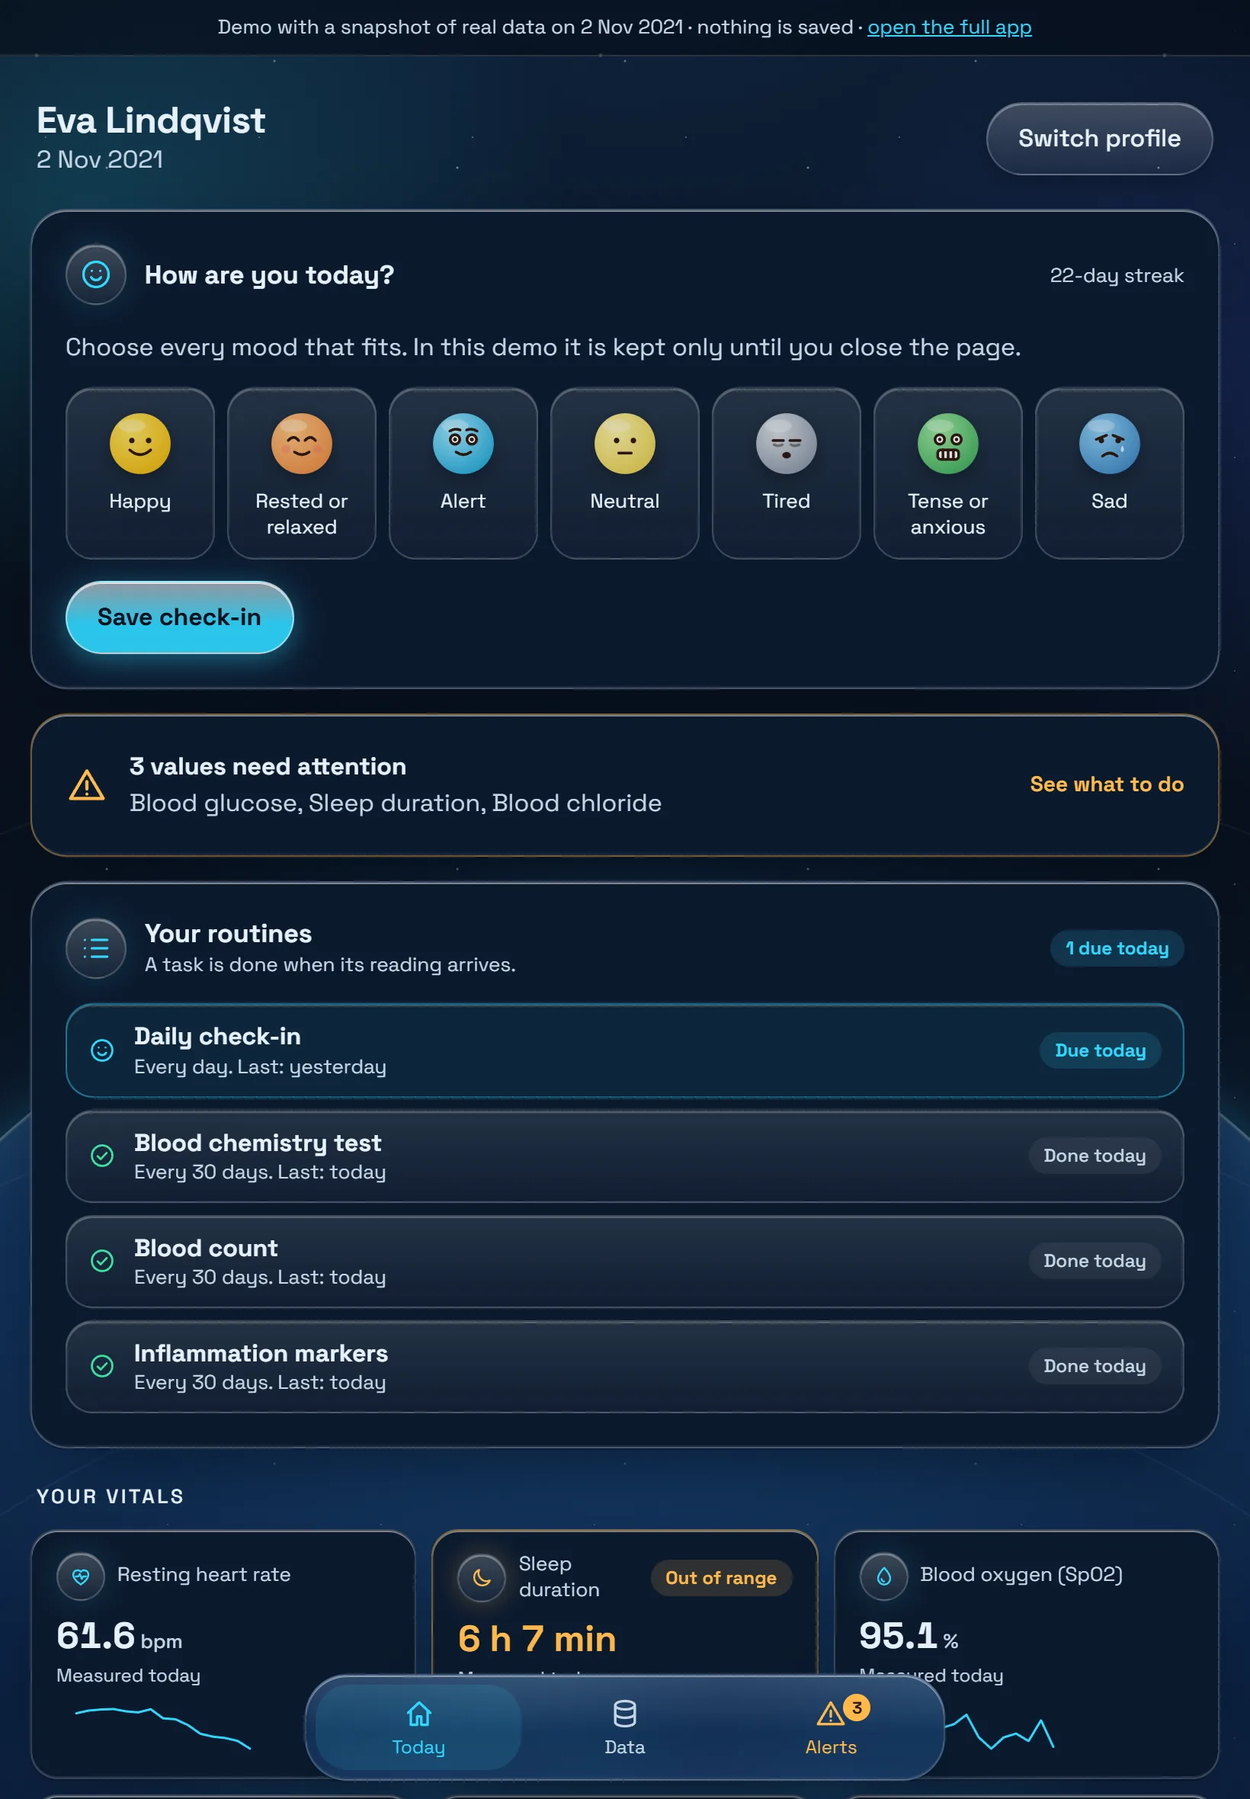
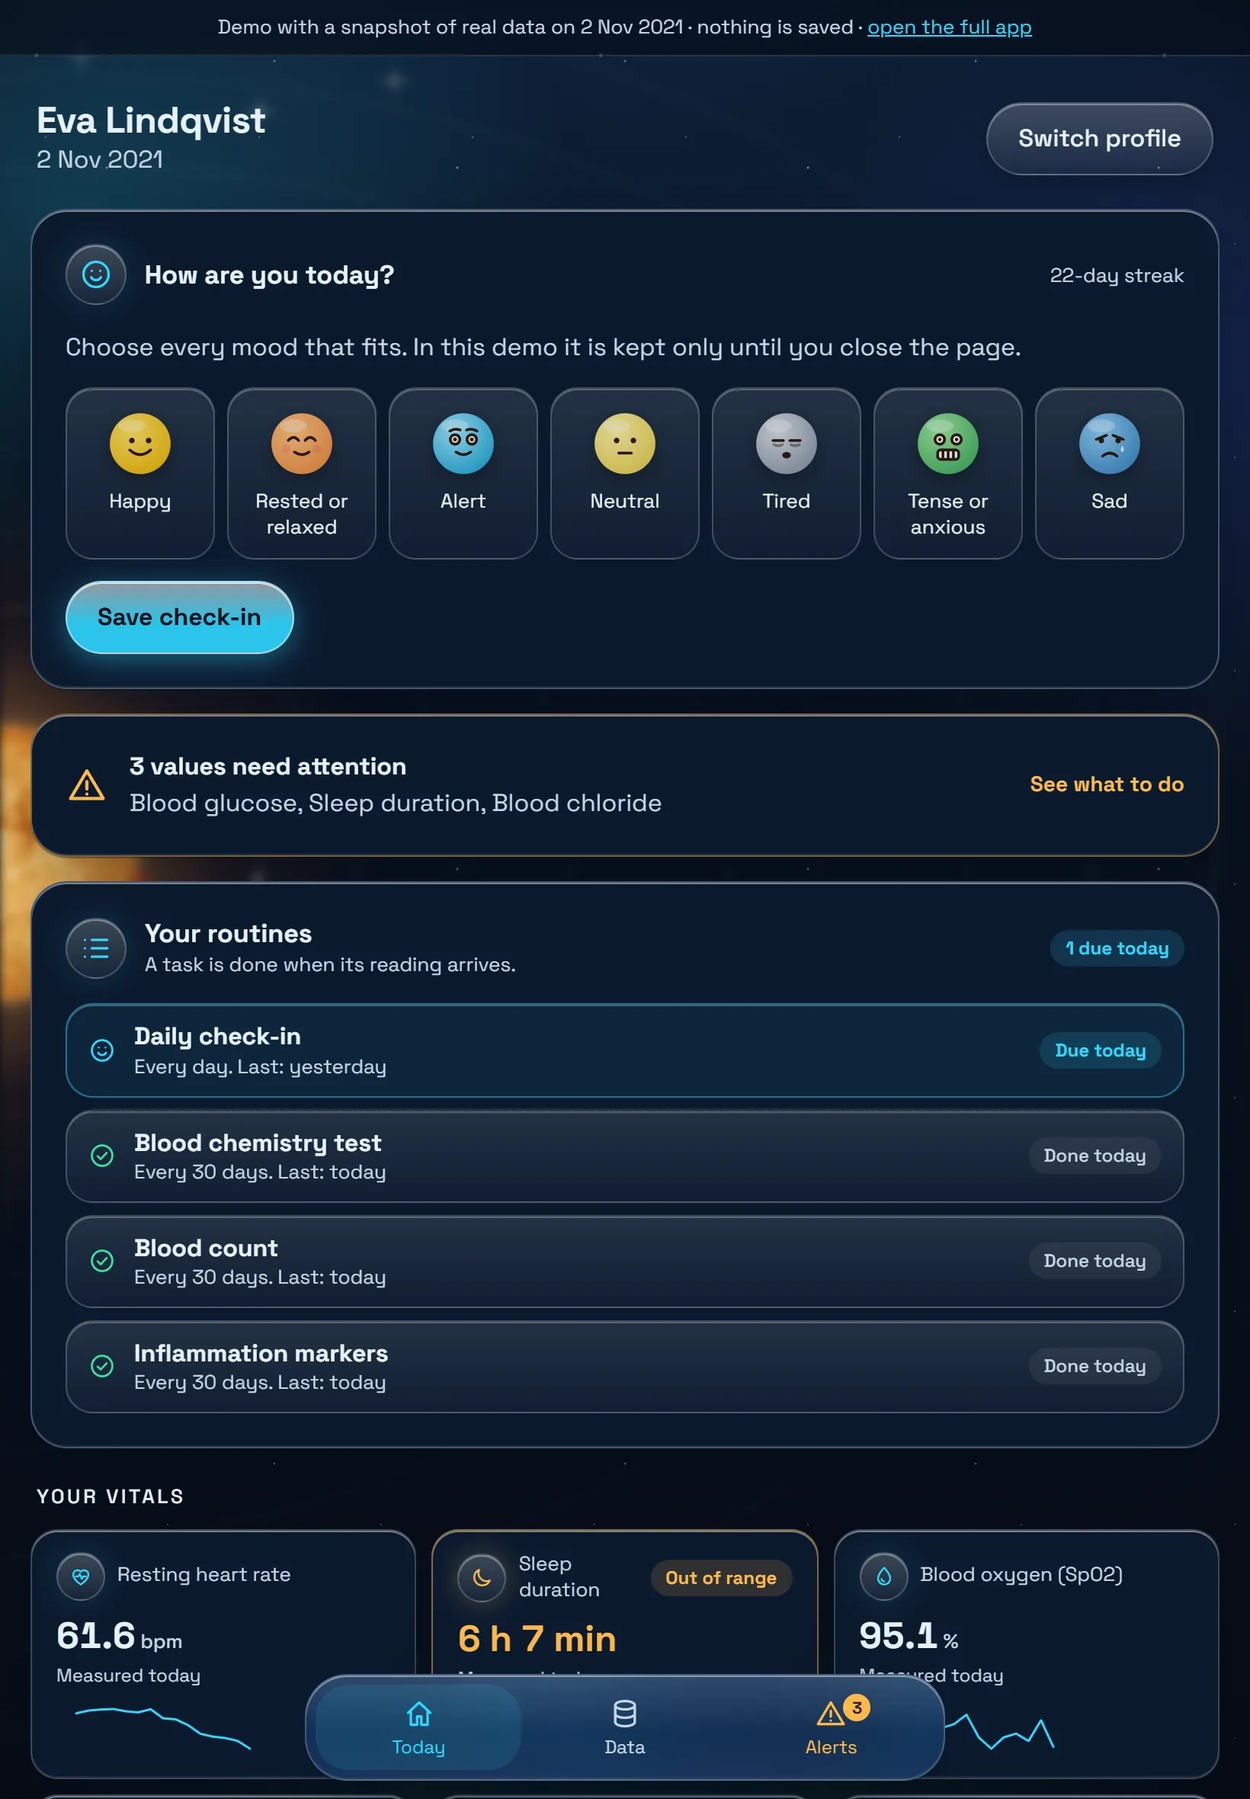
feat: bring the dashboard's solar-system sky to the landing mini demo
The mini demo of the dashboard now has Alex's sky, the same as apps/web.
SolarSky.tsx is built as it is into demo/js/sky.js, with a ten-line stand-in
for React (tools/sky/), so the demo still needs no framework and opens from a
file. The copied stylesheet and the landing screenshots follow.

Changed region(s): [[0.0, 0.3403, 1.0, 1.0]]

diff --git a/apps/landing/pitch/demo/js/sky.js b/apps/landing/pitch/demo/js/sky.js
@@ -1,0 +1,1 @@
+(function(){var e=[];function t(e){return{current:e}}function n(t){e.push(t)}function r(){let t=e;return e=[],t}var i=640,a=320,o=512,s=220,c=12,l=(e,t=0,n=1)=>e<t?t:e>n?n:e,u=(e,t,n)=>e+(t-e)*n,d=(e,t,n)=>{let r=l((n-e)/(t-e));return r*r*(3-2*r)};function f(e){return()=>{e|=0,e=e+1831565813|0;let t=Math.imul(e^e>>>15,1|e);return t=t+Math.imul(t^t>>>7,61|t)^t,((t^t>>>14)>>>0)/4294967296}}function p(e){let t=f(e),n=new Uint8Array(512),r=new Float32Array(256),i=Array.from({length:256},(e,t)=>t);for(let e=255;e>0;e--){let n=Math.floor(t()*(e+1));[i[e],i[n]]=[i[n],i[e]]}for(let e=0;e<512;e++)n[e]=i[e&255];for(let e=0;e<256;e++)r[e]=t();let a=e=>e*e*e*(e*(e*6-15)+10),o=(e,t,i)=>r[n[n[n[e]+t]+i]];function s(e,t,n){let r=Math.floor(e),i=Math.floor(t),s=Math.floor(n),c=e-r,l=t-i,d=n-s,f=r&255,p=i&255,m=s&255,h=a(c),g=a(l),_=a(d),v=u(o(f,p,m),o(f+1,p,m),h),y=u(o(f,p+1,m),o(f+1,p+1,m),h),b=u(o(f,p,m+1),o(f+1,p,m+1),h),x=u(o(f,p+1,m+1),o(f+1,p+1,m+1),h);return u(u(v,y,g),u(b,x,g),_)}function c(e,t,n,r){let i=.5,a=0,o=1,c=0;for(let l=0;l<r;l++)a+=i*s(e*o,t*o,n*o),c+=i,o*=2.03,i*=.5;return a/c}return{vn:s,fbm:c}}var m=3600,h=[],g=[];{let e=f(1859),t=()=>(e()*2-1)*1.15,n=-2;for(;n<m;)h.push({t0:n,dur:4+e()*3,phi:t(),width:.05+e()*.05,power:70+e()*45,embers:[]}),n+=9+e()*9;for(n=14;n<m;)h.push({t0:n,dur:5+e()*2,phi:t(),width:.08+e()*.05,power:120+e()*45,embers:Array.from({length:5+Math.floor(e()*5)},()=>({ang:(e()-.5)*.4,speed:40+e()*50,delay:e()*1.2,life:1.6+e()*1.4}))}),n+=45+e()*35;for(let t=0;t<70;t++)g.push({phi:(e()*2-1)*1.35,speed:16+e()*34,offset:e()*4e3,size:.8+e()*.9})}var _=[[170,40,12,.45],[214,58,12,.6],[244,98,16,.72],[255,134,24,.8],[255,182,48,.86],[255,220,104,.92],[255,246,196,.95]],v=e=>e<22?-1:Math.min(_.length-1,Math.floor((e-22)/233*_.length));function y(){let e=!1,t=document.createElement(`canvas`);t.width=t.height=o;let n=t.getContext(`2d`),r=n.createImageData(o,o),u=new Float32Array,m=new Float32Array,y=new Int32Array,b=new Float32Array,x=new Int32Array,S=new Float32Array,C=new Uint8Array,w=-1;function T(){let{vn:t,fbm:n}=p(2024);u=new Float32Array(i*a),m=new Float32Array(i*a);for(let e=0;e<a;e++){let r=(.5-(e+.5)/a)*Math.PI,o=Math.cos(r),s=Math.sin(r);for(let a=0;a<i;a++){let c=(a+.5)/i*Math.PI*2-Math.PI,f=o*Math.sin(c),p=s,h=o*Math.cos(c),g=n(f*4+3,p*4+7,h*4+1,3),_=n(f*3.1+40,p*3.1+9,h*3.1+22,3),v=d(.64,.74,_)*(1-d(.35,.6,Math.abs(r))),y=d(.58,.64,_)*(1-d(.35,.6,Math.abs(r))),b=t(f*30,p*30,h*30)-.5,x=t(f*62+5,p*62+5,h*62+5)-.5;u[e*i+a]=l(.8+.5*(g-.5)+.55*b+.3*x-.3*y-.5*v,.1,1.3);let S=t(f*44+11,p*44+2,h*44+8)-.5,C=t(f*90+1,p*90+4,h*90+9)-.5;m[e*i+a]=l(.8+.6*S+.35*C,.2,1.3)}}let r=.32,s=.2,c=Math.cos(r),f=Math.sin(r),h=Math.cos(s),g=Math.sin(s),_=[];for(let e=0;e<o;e++)for(let t=0;t<o;t++){let n=(t+.5-o/2)/(o/2),r=(e+.5-o/2)/(o/2);n*n+r*r<1&&_.push(e*o+t)}let v=_.length;y=Int32Array.from(_),b=new Float32Array(v),x=new Int32Array(v),S=new Float32Array(v),C=new Uint8Array(v);for(let e=0;e<v;e++){let t=_[e]%o,n=_[e]/o|0,r=(t+.5-o/2)/(o/2),s=-(n+.5-o/2)/(o/2),u=Math.sqrt(r*r+s*s),d=Math.sqrt(1-u*u),p=r*c-s*f,m=r*f+s*c,v=m*h-d*g,y=m*g+d*h,w=Math.asin(l(v,-1,1));b[e]=(Math.atan2(p,y)+Math.PI)/(Math.PI*2)*i,x[e]=Math.min(319,Math.floor((.5-w/Math.PI)*a))*i,S[e]=d,C[e]=Math.round(255*l((1-u)*o*.5))}e=!0}function E(e){let t=r.data,a=(e,t)=>(e%t+t)%t,o=a(-e/s*i,i),c=a(-e/(s*.8)*i+90,i),l=1+.025*Math.sin(e*.9);for(let e=0;e<y.length;e++){let n=b[e]+o;n>=i&&(n-=i);let r=b[e]+c;r>=i&&(r-=i);let a=S[e],s=(.55*u[x[e]+(n|0)]+.45*m[x[e]+(r|0)])*(.3+.7*a**.55)*l,d=y[e]*4;t[d]=Math.min(255,120+170*s),t[d+1]=Math.min(255,26+225*s**1.45),t[d+2]=Math.min(255,4+180*s**3.2),t[d+3]=C[e]}n.putImageData(r,0,0)}let D=1/22,O=null,k=-1,A=f(77);function j(e,t,n,r,i){let a=[e,t,n,r,i].join(`,`);if(O!==null&&O.key===a)return O;let o=Math.max(0,Math.floor((t-n*2.2)/i)*i),s=e+n*2.2,c=Math.min(r,t+n*2.2),l=Math.ceil((s-0)/i),u=Math.ceil((c-o)/i),d=l*u,f=new Float32Array(d),p=new Uint8Array(d),m=new Int32Array(d).fill(-1),h=new Int32Array(d).fill(-1),g=new Int32Array(d).fill(-1),_=new Float32Array(d),v=(e,t)=>{let n=Math.floor((e-0)/i),r=Math.floor((t-o)/i);return n<0||r<0||n>=l||r>=u?-1:r*l+n},y=[];for(let r=0;r<u;r++)for(let a=0;a<l;a++){let s=r*l+a,c=0+(a+.5)*i,u=o+(r+.5)*i,d=c-e,b=u-t,x=Math.hypot(d,b);if(_[s]=x,x<n*.985||x>n*2.2)continue;if(f[s]=Math.atan2(b,d),y.push(s),x<n+i*1.2){p[s]=1;continue}let S=d/x,C=b/x;m[s]=v(c-S*i,u-C*i),h[s]=v(c-S*i-C*i,u-C*i+S*i),g[s]=v(c-S*i+C*i,u-C*i-S*i)}return y.sort((e,t)=>_[t]-_[e]),O={key:a,c:i,x0:0,y0:o,w:l,h:u,heat:new Float32Array(d),ang:f,source:p,inC:m,inL:h,inR:g,order:Int32Array.from(y)},k=-1,O}function M(e,t,n){let{heat:r,order:i,source:a,inC:o,inL:s,inR:c,ang:l}=e,u=9*(e.c/4)*(158/n);for(let e=0;e<i.length;e++){let t=i[e];if(a[t])continue;let n=A(),l=n<.18?s[t]:n<.82?o[t]:c[t],d=l>=0?r[l]:0;r[t]=d<=0?0:Math.max(0,d-(.5+A())*u)}let f=h.filter(e=>t>=e.t0&&t<=e.t0+e.dur);for(let e=0;e<i.length;e++){let n=i[e];if(!a[n])continue;let o=0;for(let e of f){let r=(t-e.t0)/e.dur,i=d(0,.1,r)*(1-d(.55,1,r)),a=(l[n]-e.phi)/e.width;o+=e.power*i*Math.exp(-a*a)}r[n]=Math.min(255,o)*(.8+.2*A())}}function N(e,t,n,r,i,a){let o=Math.max(2,Math.round(r/55)),s=j(t,n,r,i,o);(k<0||a<k||a-k>12)&&(s.heat.fill(0),k=Math.max(0,a-9));let c=0;for(;k+D<=a&&c<260;)M(s,k,r),k+=D,c++;let l=_.map(()=>[]);for(let e=0;e<s.order.length;e++){let t=s.order[e],n=v(s.heat[t]);n<0||l[n].push(s.x0+t%s.w*s.c,s.y0+Math.floor(t/s.w)*s.c)}for(let e of h)if(!(e.embers.length===0||a<e.t0||a>e.t0+e.dur+7))for(let i of e.embers){let s=a-e.t0-i.delay;if(s<0||s>i.life)continue;let c=s/i.life,u=r*1.02+i.speed*(r/158)*(s-s*s/(2*i.life)),d=e.phi+i.ang,f=Math.round((t+u*Math.cos(d))/o)*o,p=Math.round((n+u*Math.sin(d))/o)*o,m=v(255*(1-c)*(.75+.25*Math.sin(s*19+i.speed)));m>=0&&l[m].push(f,p)}for(let t=0;t<_.length;t++){if(l[t].length===0)continue;let n=_[t];e.fillStyle=`rgba(${n[0]},${n[1]},${n[2]},${n[3]})`,e.beginPath();for(let n=0;n<l[t].length;n+=2)e.rect(l[t][n],l[t][n+1],o,o);e.fill()}}function P(n,r,i,a,o,s,l){n.save();let u=1+.03*Math.sin(l*.6),d=n.createRadialGradient(r,i,a*.9,r,i,a*2.7*u);d.addColorStop(0,`rgba(255,190,90,0.55)`),d.addColorStop(.12,`rgba(255,150,60,0.3)`),d.addColorStop(.4,`rgba(255,110,40,0.1)`),d.addColorStop(1,`rgba(255,90,30,0)`),n.fillStyle=d,n.beginPath(),n.arc(r,i,a*2.7*u,0,Math.PI*2),n.fill(),n.globalCompositeOperation=`lighter`;for(let e of g){let t=o*1.1,c=a*1.05+(l*e.speed+e.offset)%t,u=(1-(c-a)/t)**1.4,d=r+c*Math.cos(e.phi),f=i+c*Math.sin(e.phi);d>o*1.05||f<-5||f>s+5||(n.fillStyle=`rgba(255,190,120,${.32*u})`,n.fillRect(d,f,e.size,e.size))}if(n.globalCompositeOperation=`source-over`,e)(l-w>1/c||l<w)&&(E(l),w=l),n.imageSmoothingEnabled=!0,n.imageSmoothingQuality=`medium`,n.drawImage(t,r-a,i-a,a*2,a*2);else{let e=n.createRadialGradient(r,i,0,r,i,a);e.addColorStop(0,`#ffe7a8`),e.addColorStop(.8,`#ff9a2e`),e.addColorStop(1,`#c0480e`),n.fillStyle=e,n.beginPath(),n.arc(r,i,a,0,Math.PI*2),n.fill()}let f=n.createRadialGradient(r,i,a*.93,r,i,a*1.04);f.addColorStop(0,`rgba(255,200,110,0)`),f.addColorStop(.55,`rgba(255,214,140,0.28)`),f.addColorStop(1,`rgba(255,150,60,0)`),n.fillStyle=f,n.beginPath(),n.arc(r,i,a*1.04,0,Math.PI*2),n.fill(),N(n,r,i,a,s,l),n.restore()}return{build:T,draw:P}}function b(e,t){return{type:e,props:t}}var x=[{a:.21,start:.16,r:2.3,color:[172,164,154]},{a:.285,start:-1.3,r:3.6,color:[232,210,162]},{a:.37,start:1.48,r:4.1,color:[92,152,226]},{a:.46,start:-.7,r:3.1,color:[206,110,72]},{a:.66,start:.5,r:9,color:[216,172,124],bands:!0},{a:.78,start:-.3,r:7,color:[228,202,142],bands:!0,ring:!0},{a:.88,start:.35,r:4.8,color:[152,216,224]},{a:.98,start:.55,r:4.8,color:[86,130,228]}],S=.11,C=0,w=.48,T=.71,E=-.12,D=.028,O=1.55,k=24,A=[.54,.6],j=240,M=30;function N(e){return()=>{e|=0,e=e+1831565813|0;let t=Math.imul(e^e>>>15,1|e);return t=t+Math.imul(t^t>>>7,61|t)^t,((t^t>>>14)>>>0)/4294967296}}var P=N(2026),F=Array.from({length:j},()=>({a:A[0]+P()*(A[1]-A[0]),th:P()*Math.PI*2,size:.8+P()*.9,alpha:.2+P()*.4})),I=Array.from({length:M},()=>({x:P(),y:P(),size:.8+P()*1.4,period:3.5+P()*6,phase:P(),tint:P()<.6?`255,255,255`:P()<.5?`190,222,255`:`255,232,196`})),L=e=>D*(e/.26)**-1.15,R=y(),z=(e,t=1,n=1)=>`rgba(${Math.min(255,e[0]*t)|0},${Math.min(255,e[1]*t)|0},${Math.min(255,e[2]*t)|0},${n})`;function B(e,t,n,r){e.clearRect(0,0,t,n);let i=C*t,a=w*n,o=Math.cos(E),s=Math.sin(E),c=Math.min(Math.max(t/1440,.7),1.3),l=(e,n)=>{let r=e*t*Math.cos(n),c=e*t*T*Math.sin(n);return{x:i+o*r-s*c,y:a+s*r+o*c,front:Math.sin(n)}},u=(n,r)=>{e.lineWidth=1,e.strokeStyle=`rgba(190,226,255,0.1)`;for(let o of x)e.save(),e.translate(i,a),e.rotate(E),e.beginPath(),e.ellipse(0,0,o.a*t,o.a*t*T,0,n,r),e.stroke(),e.restore()};u(Math.PI,Math.PI*2),e.fillStyle=`rgb(214,204,190)`;for(let i of F){let a=l(i.a,i.th+L(i.a)*r);a.x<-4||a.x>t+4||a.y<-4||a.y>n+4||(e.globalAlpha=i.alpha,e.fillRect(a.x,a.y,i.size,i.size))}e.globalAlpha=1;for(let i of I){let a=(r/i.period+i.phase)%1,o=a<.3?Math.sin(a/.3*Math.PI):0,s=i.x*t,c=i.y*n,l=.35+.15*Math.sin(r*.7+i.phase*20);if(e.fillStyle=`rgba(${i.tint},${l+.5*o})`,e.beginPath(),e.arc(s,c,i.size*.5+o*.7,0,Math.PI*2),e.fill(),o>.02){let t=(5+i.size*5)*o;e.strokeStyle=`rgba(${i.tint},${.75*o})`,e.lineWidth=.8,e.beginPath(),e.moveTo(s-t,c),e.lineTo(s+t,c),e.moveTo(s,c-t),e.lineTo(s,c+t),e.stroke()}}let d=o=>{let s=o.start+L(o.a)*r,u=l(o.a,s),d=o.r*O*c*(1+.25*u.front);e.lineWidth=1,e.lineCap=`round`;let f=u;for(let t=1;t<=16;t++){let n=l(o.a,s-t*.03);e.strokeStyle=z(o.color,1,.3*(1-t/16)),e.beginPath(),e.moveTo(f.x,f.y),e.lineTo(n.x,n.y),e.stroke(),f=n}if(u.x<-d*3||u.x>t+d*3||u.y<-d*3||u.y>n+d*3)return;let p=i-u.x,m=a-u.y,h=Math.hypot(p,m),g=p/h,_=m/h,v=e.createRadialGradient(u.x,u.y,d*.6,u.x,u.y,d*3.2);v.addColorStop(0,z(o.color,1,.22)),v.addColorStop(1,z(o.color,1,0)),e.fillStyle=v,e.beginPath(),e.arc(u.x,u.y,d*3.2,0,Math.PI*2),e.fill();let y=-.47;if(o.ring&&(e.strokeStyle=z(o.color,.95,.5),e.lineWidth=Math.max(1,d*.22),e.beginPath(),e.ellipse(u.x,u.y,d*1.95,d*.55,y,Math.PI,Math.PI*2),e.stroke()),e.save(),e.beginPath(),e.arc(u.x,u.y,d,0,Math.PI*2),e.clip(),e.fillStyle=z(o.color,1,1),e.fillRect(u.x-d,u.y-d,d*2,d*2),o.bands)for(let t=-3;t<=3;t++)e.fillStyle=t%2?`rgba(120,72,42,0.28)`:`rgba(255,236,200,0.16)`,e.fillRect(u.x-d,u.y+t*d*.27-d*.07,d*2,d*.17);let b=e.createRadialGradient(u.x+g*d*.5,u.y+_*d*.5,d*.15,u.x,u.y,d*1.08);b.addColorStop(0,`rgba(255,255,255,0.25)`),b.addColorStop(.5,`rgba(0,0,0,0.04)`),b.addColorStop(1,`rgba(2,5,12,0.82)`),e.fillStyle=b,e.fillRect(u.x-d,u.y-d,d*2,d*2),e.restore(),o.ring&&(e.strokeStyle=z(o.color,1.05,.7),e.lineWidth=Math.max(1,d*.22),e.beginPath(),e.ellipse(u.x,u.y,d*1.95,d*.55,y,0,Math.PI),e.stroke())},f=e=>Math.sin(e.start+L(e.a)*r)<0;for(let e of x)f(e)&&d(e);R.draw(e,i,a,Math.max(S*t,80),t,n,r),u(0,Math.PI);for(let e of x)f(e)||d(e)}function V(){let e=t(null);return n(()=>{let t=e.current;if(t===null)return;let n=t.getContext(`2d`),r=window.matchMedia(`(prefers-reduced-motion: reduce)`).matches,i=new URLSearchParams(window.location.search).get(`sky`),a=0,o=0,s=0,c=0,l=0,u=performance.now(),d=()=>{let e=Math.min(window.devicePixelRatio||1,2);a=window.innerWidth,o=window.innerHeight,t.width=Math.round(a*e),t.height=Math.round(o*e),n.setTransform(e,0,0,e,0,0)},f=()=>i===null?r?0:l:parseFloat(i),p=e=>{s=requestAnimationFrame(p);let t=Math.min((e-u)/1e3,.1);u=e,l+=t,e-c<1e3/k||(c=e,B(n,a,o,f()))};d(),B(n,a,o,f()),t.classList.add(`sky-solar-ready`);let m=window.setTimeout(()=>{R.build(),B(n,a,o,f())},120);i===null&&!r&&(s=requestAnimationFrame(p));let h=()=>{d(),B(n,a,o,f())};return window.addEventListener(`resize`,h),()=>{cancelAnimationFrame(s),window.clearTimeout(m),window.removeEventListener(`resize`,h)}},[]),b(`canvas`,{ref:e,className:`sky-solar`,"aria-hidden":`true`})}var H=V(),U=document.createElement(H.type);U.className=H.props.className,U.setAttribute(`aria-hidden`,`true`),H.props.ref.current=U,document.body.prepend(U),r().forEach(e=>e())})();

diff --git a/apps/landing/pitch/demo/css/app.css b/apps/landing/pitch/demo/css/app.css
@@ -64,11 +64,6 @@ html::before {
      does not visibly repeat */
   background:
     radial-gradient(120% 90% at 50% 38%, transparent 55%, rgb(2 6 14 / 0.6)),
-    /* Three hairline orbits around the Earth below, and the glint of the sun on its horizon */
-    radial-gradient(circle at 50% 138%, transparent calc(64vmax - 1px), rgb(190 226 255 / 0.13) 64vmax, transparent calc(64vmax + 1px)),
-    radial-gradient(circle at 50% 138%, transparent calc(80vmax - 1px), rgb(190 226 255 / 0.09) 80vmax, transparent calc(80vmax + 1px)),
-    radial-gradient(circle at 50% 138%, transparent calc(98vmax - 1px), rgb(190 226 255 / 0.06) 98vmax, transparent calc(98vmax + 1px)),
-    radial-gradient(60vmax 12vmax at 50% 100%, rgb(120 210 255 / 0.22), transparent 70%),
     radial-gradient(1.6px 1.6px at 24px 36px, rgb(255 255 255 / 0.9), transparent) 0 0 / 370px 370px,
     radial-gradient(1.2px 1.2px at 210px 280px, rgb(190 226 255 / 0.85), transparent) 0 0 / 370px 370px,
     radial-gradient(1px 1px at 70px 110px, rgb(255 255 255 / 0.7), transparent) 0 0 / 230px 230px,
@@ -92,27 +87,27 @@ body::before {
     radial-gradient(52vmax 26vmax at 50% 96%, rgb(47 216 190 / 0.14), transparent 66%);
 }
 
-body::after {
-  content: '';
+/* The planets and their orbits, drawn on a canvas by src/components/SolarSky.tsx. Under everything, and still. */
+.sky-solar {
   position: fixed;
-  left: 50%;
-  /* Follows the width, which stops growing at 1400px */
-  bottom: max(-78vw, -728px);
+  inset: 0;
   z-index: -1;
-  width: 150vw;
-  max-width: 1400px;
-  aspect-ratio: 1;
-  border-radius: 50%;
-  transform: translateX(-50%);
+  width: 100%;
+  height: 100%;
   pointer-events: none;
-  opacity: 0.5;
-  background: radial-gradient(circle at 50% 0, #6cc4f7, #2371c4 22%, #0b2f66 52%, #061a3a 68%, transparent 72%);
-  /* The atmosphere: a thin bright rim, then a wide soft glow */
-  box-shadow:
-    inset 0 2px 1px rgb(190 236 255 / 0.85),
-    inset 0 14px 40px rgb(120 205 255 / 0.3),
-    0 -2px 26px rgb(47 216 255 / 0.5),
-    0 -30px 120px rgb(47 150 255 / 0.28);
+  opacity: 0;
+  transition:
+    opacity 2s ease,
+    filter 0.8s ease;
+}
+
+.sky-solar-ready {
+  opacity: 1;
+}
+
+/* Once a profile is chosen the sky keeps moving, but a little out of focus, so it does not compete with the panel */
+body:has(.with-tabs, .detail, .emergency) .sky-solar {
+  filter: blur(3px) brightness(0.92);
 }
 
 html::after {
@@ -164,10 +159,6 @@ html::after {
     animation: drift 26s ease-in-out infinite alternate;
   }
 
-  body::after {
-    animation: breathe 9s ease-in-out infinite alternate;
-  }
-
   body:has(.picker, .detail, .emergency) #root::before {
     animation: twinkle 5s ease-in-out infinite alternate;
   }
@@ -213,16 +204,6 @@ html::after {
   100% {
     opacity: 0;
     transform: translate3d(150vw, 43vw, 0) rotate(16deg);
-  }
-}
-
-@keyframes breathe {
-  from {
-    opacity: 0.42;
-  }
-
-  to {
-    opacity: 0.6;
   }
 }
 
@@ -688,7 +669,8 @@ button.card:active {
   }
 
   .tab-count::after {
-    animation: alert-pulse 2.2s ease-out infinite;
+    will-change: transform, opacity;
+    animation: alert-pulse 2.2s ease-out 3;
   }
 }
 
@@ -2137,4 +2119,104 @@ button.card:active {
   .learn-figure {
     max-width: 280px;
   }
+}
+
+/* --- Sign-in: the PIN pad and who is signed in --- */
+.signed-in {
+  display: flex;
+  align-items: center;
+  justify-content: center;
+  gap: 12px;
+  flex-wrap: wrap;
+  margin: 0 0 14px;
+  color: var(--mute);
+  font-size: 14px;
+}
+
+.signed-in strong {
+  color: var(--ink);
+}
+
+.pin {
+  display: grid;
+  gap: 14px;
+  justify-items: stretch;
+}
+
+.pin > .ghost-small {
+  justify-self: start;
+}
+
+.pin-dots {
+  display: flex;
+  justify-content: center;
+  gap: 14px;
+  margin-top: 4px;
+}
+
+.pin-dots i {
+  width: 14px;
+  height: 14px;
+  border-radius: 50%;
+  border: 2px solid var(--glass-line);
+  transition: background 0.15s, border-color 0.15s, transform 0.15s;
+}
+
+.pin-dots i.on {
+  background: var(--accent);
+  border-color: var(--accent);
+  transform: scale(1.1);
+}
+
+.pin-message {
+  min-height: 22px;
+  margin: 0;
+  text-align: center;
+  color: var(--alert-ink);
+}
+
+.pinpad {
+  display: grid;
+  grid-template-columns: repeat(3, minmax(0, 1fr));
+  gap: 10px;
+  max-width: 340px;
+  width: 100%;
+  margin: 0 auto;
+}
+
+.pinpad button {
+  min-height: 60px;
+  border-radius: var(--radius-tile);
+  border: 1px solid var(--glass-line);
+  background: var(--button);
+  box-shadow: var(--button-edge);
+  color: var(--ink);
+  font: 600 22px/1 inherit;
+  font-family: inherit;
+  cursor: pointer;
+  transition: transform 0.12s var(--ease), box-shadow 0.2s;
+}
+
+.pinpad button:hover:not(:disabled) {
+  box-shadow: var(--button-edge-hover);
+}
+
+.pinpad button:active:not(:disabled) {
+  transform: scale(0.96);
+}
+
+.pinpad button.fn {
+  font-size: 15px;
+  color: var(--mute);
+}
+
+.pinpad button:disabled {
+  opacity: 0.55;
+  cursor: default;
+}
+
+.pin-note {
+  text-align: center;
+  margin: 0;
+  font-size: 13px;
 }

diff --git a/apps/landing/pitch/tools/sky/entry.js b/apps/landing/pitch/tools/sky/entry.js
@@ -1,0 +1,12 @@
+// Mounts Alex's solar-system sky of the dashboard (apps/web/src/components/SolarSky.tsx) in the mini demo,
+// with no React: the component is called once, its canvas is created here and its effect is run.
+import { SolarSky } from '../../../../web/src/components/SolarSky.tsx'
+import { takeEffects } from './react-shim.js'
+
+const element = SolarSky()
+const canvas = document.createElement(element.type)
+canvas.className = element.props.className
+canvas.setAttribute('aria-hidden', 'true')
+element.props.ref.current = canvas
+document.body.prepend(canvas)
+takeEffects().forEach((effect) => effect())

diff --git a/apps/landing/pitch/tools/sky/react-shim.js b/apps/landing/pitch/tools/sky/react-shim.js
@@ -1,0 +1,17 @@
+// Just enough of React for SolarSky.tsx (apps/web) to run once, outside React, in the dashboard mini demo.
+// The component only keeps a ref to its canvas and starts the sky in one effect.
+let effects = []
+
+export function useRef(initial) {
+  return { current: initial }
+}
+
+export function useEffect(effect) {
+  effects.push(effect)
+}
+
+export function takeEffects() {
+  const taken = effects
+  effects = []
+  return taken
+}

diff --git a/apps/landing/pitch/demo/index.html b/apps/landing/pitch/demo/index.html
@@ -45,5 +45,7 @@
 
 <script src="data/snapshot.js"></script>
 <script src="js/app.js"></script>
+<!-- Alex's solar-system sky of the dashboard, built from apps/web by tools/sky/vite.config.mjs -->
+<script src="js/sky.js"></script>
 </body>
 </html>

diff --git a/apps/landing/pitch/tools/sky/jsx-shim.js b/apps/landing/pitch/tools/sky/jsx-shim.js
@@ -1,0 +1,7 @@
+// The JSX of SolarSky.tsx is one <canvas>: keep its type and props, entry.js makes the element.
+export function jsx(type, props) {
+  return { type, props }
+}
+
+export const jsxs = jsx
+export const Fragment = 'fragment'

diff --git a/apps/landing/pitch/README.md b/apps/landing/pitch/README.md
@@ -26,6 +26,7 @@ The landing page for the NASA Space Apps Challenge 2026 presentation. Open `inde
 - **Text:** edit `js/i18n.js`. A key missing in one language falls back to English.
 - **New language:** copy the `en` block in `js/i18n.js`, translate it, then add the code to `LANGS` and `HTML_LANG` in `js/main.js` and a button in the `#langs` switcher in `index.html`.
 - **App changed:** copy `apps/web/src/styles/index.css` to `demo/css/app.css` again, and port any change of the screens to `demo/js/app.js`.
+- **Dashboard sky changed** (`apps/web/src/components/SolarSky.tsx` or `lib/sun.ts`): from `apps/web`, run `npx vite build --config ../landing/pitch/tools/sky/vite.config.mjs`. It writes `demo/js/sky.js`, with a ten-line stand-in for React (`tools/sky/`).
 - **Data changed:** start the moon server and run `python tools/snapshot.py http://localhost:8000 demo/data/snapshot.js` from this folder.
 - **Screenshots:** with the moon server and `apps/web` (`npm run dev`) running, run `uv run --no-project --with playwright --with pillow python tools/shoot.py` from this folder. It uses the Chrome installed on the machine. Pass `skip` to leave the infection screenshot as it is.
 
